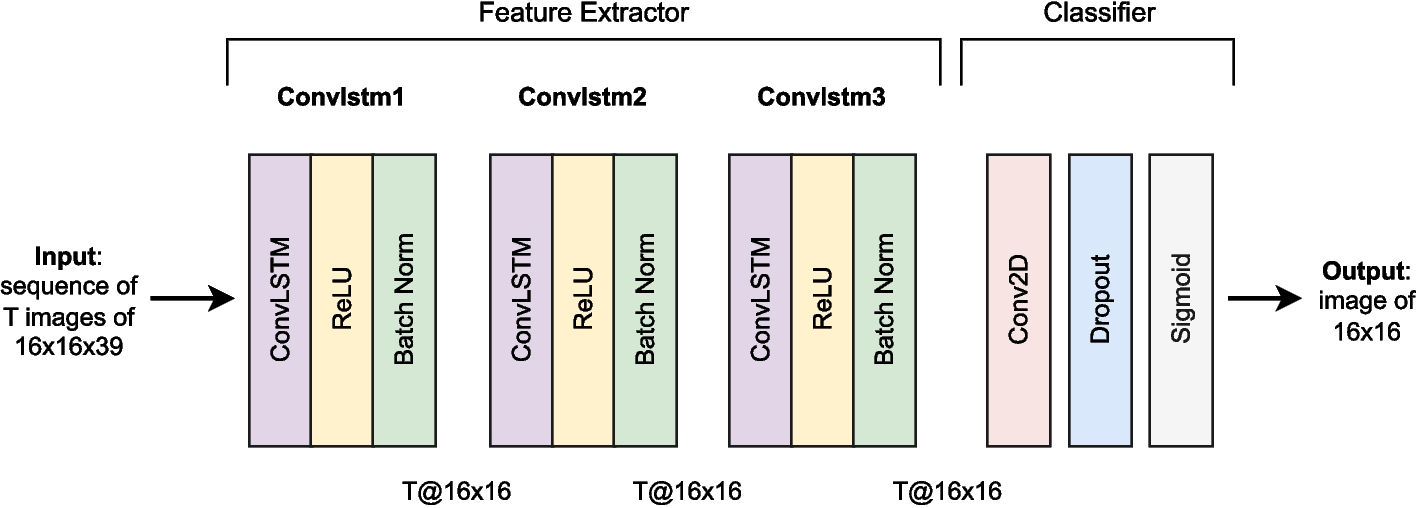
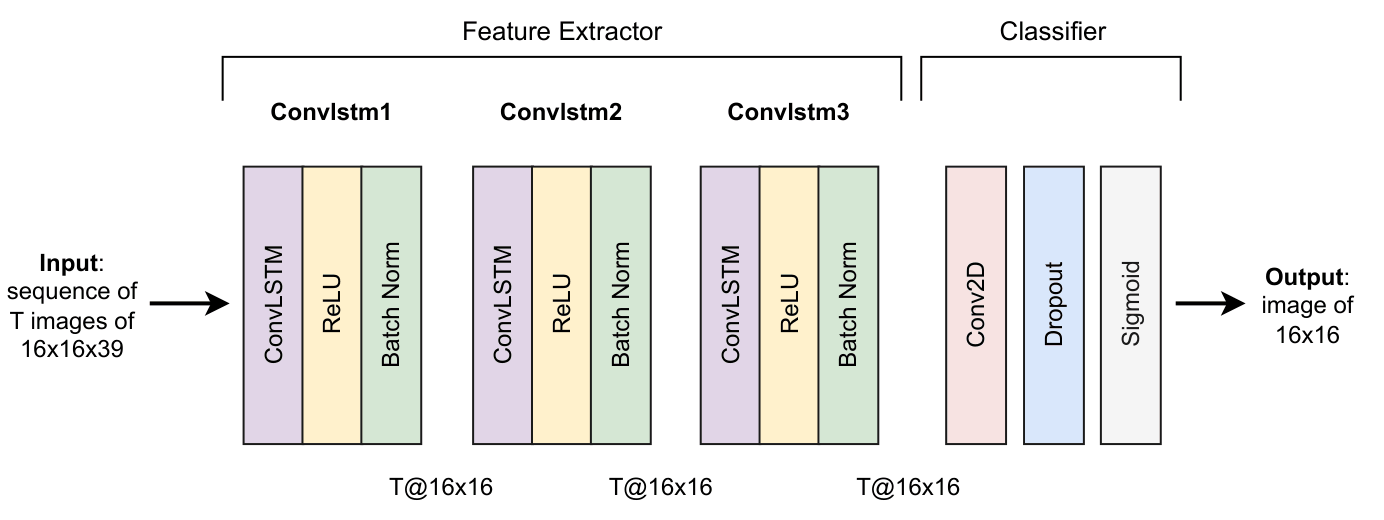
Real figures for published papers; strip cards for unpublished work
- fig-forecasting / fig-nature now use the real paper figures
- Under Review and In Preparation entries drop the figure and the
  abstract button, leaving title, authors and venue
- Remove unused placeholder SVGs

Claude-Session: https://claude.ai/code/session_0124boQe4HBumfgeZ5GEBQvP

diff --git a/publications.html b/publications.html
@@ -123,9 +123,11 @@
                target="_blank" rel="noopener">DOI &#8599;</a>
           </div>
         </div>
-        <a class="pub-fig-link" href="assets/fig-nature.svg" target="_blank" rel="noopener">
-          <img class="pub-fig" src="assets/fig-nature.svg"
-               alt="Figure from the urban crime research paper">
+        <a class="pub-fig-link" href="assets/fig-nature.png" target="_blank" rel="noopener">
+          <img class="pub-fig" src="assets/fig-nature.png"
+               alt="Overview of non-traditional data sources and computational
+               methods for urban crime research and their typical research
+               goals">
         </a>
       </article>
     </section>
@@ -144,19 +146,7 @@
             &amp; Campedelli, G. M.
           </p>
           <p class="pub-venue">Under review at Justice Quarterly</p>
-          <div class="pub-actions">
-            <details class="pub-abstract">
-              <summary class="btn">Abstract</summary>
-              <div class="pub-abstract-body">
-                <p><!-- TODO: paste the abstract here --></p>
-              </div>
-            </details>
-          </div>
         </div>
-        <a class="pub-fig-link" href="assets/fig-ambient.svg" target="_blank" rel="noopener">
-          <img class="pub-fig" src="assets/fig-ambient.svg"
-               alt="Figure from the ambient population and crime paper">
-        </a>
       </article>
     </section>
 
@@ -173,19 +163,7 @@
             <strong>Albors Zumel, A.</strong>, Tizzoni, M. &amp; Campedelli, G. M.
           </p>
           <p class="pub-venue">In preparation</p>
-          <div class="pub-actions">
-            <details class="pub-abstract">
-              <summary class="btn">Abstract</summary>
-              <div class="pub-abstract-body">
-                <p><!-- TODO: paste the abstract here --></p>
-              </div>
-            </details>
-          </div>
         </div>
-        <a class="pub-fig-link" href="assets/fig-llm.svg" target="_blank" rel="noopener">
-          <img class="pub-fig" src="assets/fig-llm.svg"
-               alt="Figure from the LLM bias in threat detection paper">
-        </a>
       </article>
     </section>
   </main>

diff --git a/style.css b/style.css
@@ -262,6 +262,10 @@ main.pubs {
   min-width: 0;
 }
 
+.pub-main > :last-child {
+  margin-bottom: 0;
+}
+
 .pub-title {
   margin: 0 0 0.4rem;
   font-size: 1.1rem;
